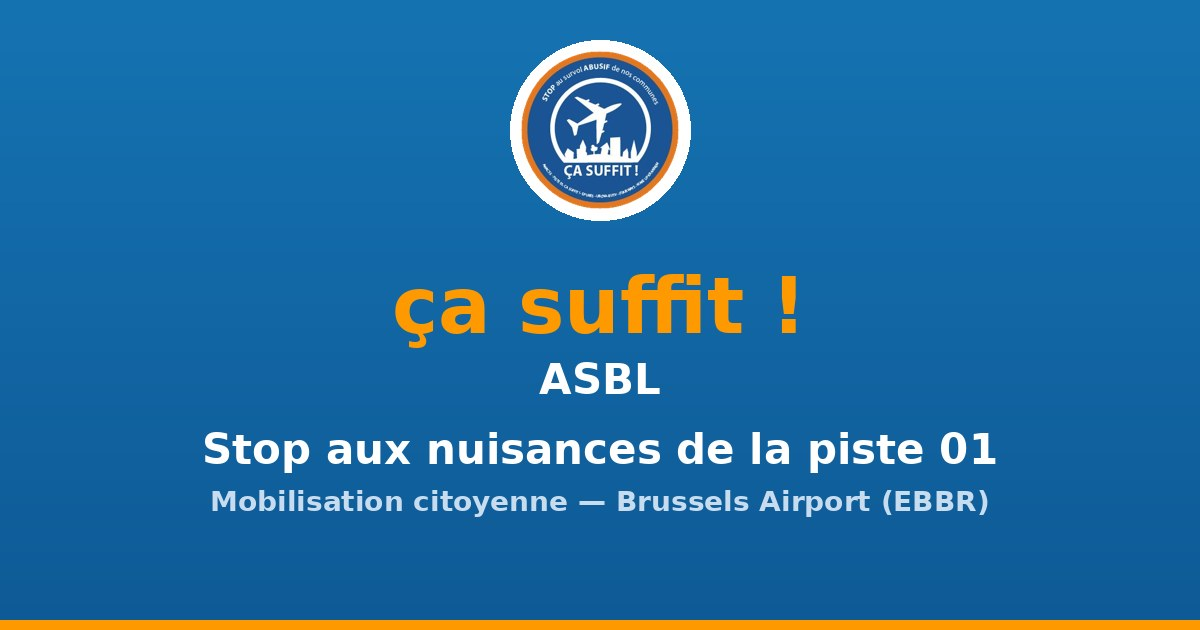
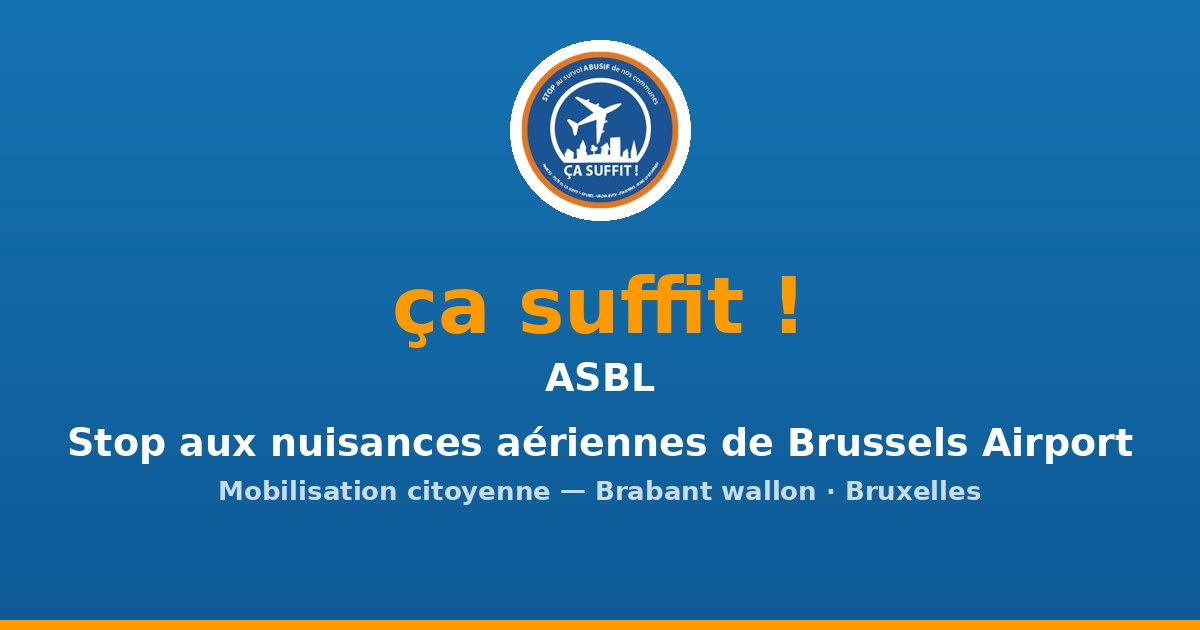
SEO — Slogan OG plus large : 'Stop aux nuisances aériennes de Brussels Airport' (FR + NL) + image OG régénérée

Changed region(s): [[0.0617, 0.6635, 0.9558, 0.8143], [0.4317, 0.573, 0.555, 0.6333]]

diff --git a/lang/fr.php b/lang/fr.php
@@ -66,6 +66,6 @@ return [
     'annonce.equals'       => 'ça suffit ! ASBL',
 
     // ── SEO / Open Graph ─────────────────────────────────────────────────
-    'seo.description'      => 'Mobilisation citoyenne contre les nuisances aériennes de la piste 01 de Brussels Airport — Action en justice, surveillance météo en temps réel, communauté de riverains du Brabant wallon et de la région bruxelloise.',
-    'seo.og_title'         => 'ça suffit ! ASBL — Stop aux nuisances de la piste 01',
+    'seo.description'      => 'Mobilisation citoyenne contre les nuisances aériennes de Brussels Airport — Action en justice, surveillance météo en temps réel, communauté de riverains du Brabant wallon et de la région bruxelloise.',
+    'seo.og_title'         => 'ça suffit ! ASBL — Stop aux nuisances aériennes de Brussels Airport',
 ];

diff --git a/lang/nl.php b/lang/nl.php
@@ -66,6 +66,6 @@ return [
     'annonce.equals'       => 'ça suffit ! VZW',
 
     // ── SEO / Open Graph ─────────────────────────────────────────────────
-    'seo.description'      => 'Burgermobilisatie tegen de geluidshinder van baan 01 van Brussels Airport — Juridische actie, real-time weermonitoring, gemeenschap van omwonenden uit Vlaams- en Waals-Brabant en het Brussels Gewest.',
-    'seo.og_title'         => 'ça suffit ! VZW — Stop de hinder van baan 01',
+    'seo.description'      => 'Burgermobilisatie tegen de geluidshinder van Brussels Airport — Juridische actie, real-time weermonitoring, gemeenschap van omwonenden uit Vlaams- en Waals-Brabant en het Brussels Gewest.',
+    'seo.og_title'         => 'ça suffit ! VZW — Stop de geluidshinder van Brussels Airport',
 ];